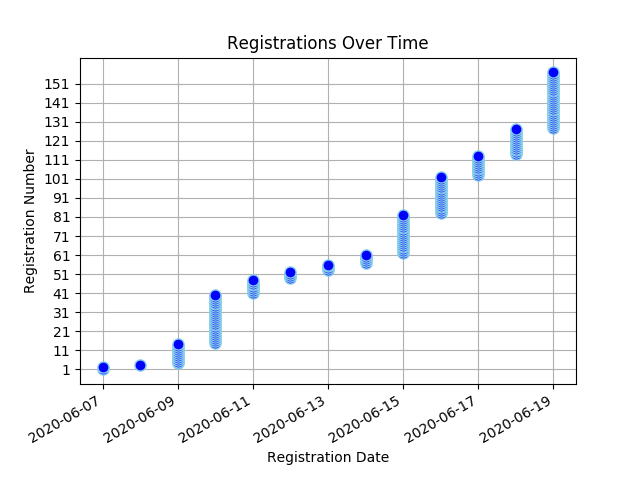
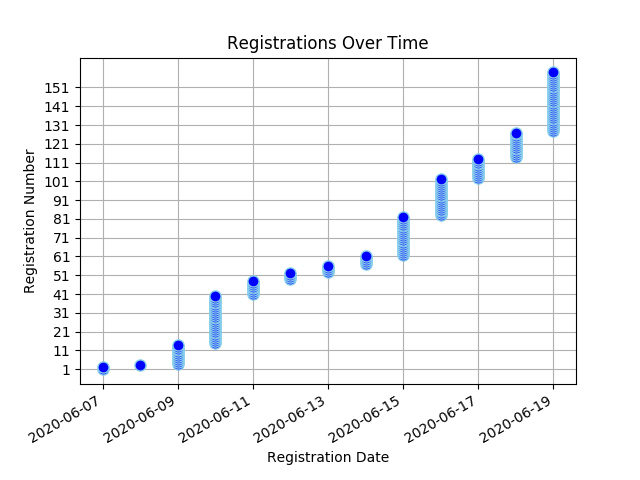
Registree stats backup on Fri Jun 19 16:34:41 SAST 2020

Changed region(s): [[0.0625, 0.1562, 0.9062, 0.7188], [0.875, 0.1562, 0.9062, 0.1875]]

diff --git a/content/virtual_conf_stats/_index.md b/content/virtual_conf_stats/_index.md
@@ -16,7 +16,7 @@ draft: false
 </head>
 <body>
 <h1 style="color: #000000;">Virtual Convention Registration Stats</h1>
-<ul><li><strong>Number of Registrees</strong>: 157</li>
+<ul><li><strong>Number of Registrees</strong>: 159</li>
 </ul><a href="/docs/virtual_convention_stats.csv">Download registration details here</a>
 <h2>Registrees</h2>
 <table id="registreeTable" class="tablesorter" border="1" padding=1>
@@ -37,6 +37,7 @@ Club
 <tr><td>Baumgarten, Linda</td><td>Sea Point</td></tr>
 <tr><td>Behrens, Ulrike</td><td>Windhoek</td></tr>
 <tr><td>Beukes, Valencia</td><td>Kuilsriver</td></tr>
+<tr><td>Beukes, Valencia</td><td>Kuilsrver</td></tr>
 <tr><td>Botha, Lynette</td><td>Cowies Hill</td></tr>
 <tr><td>BRAGA BORGES, JOSE</td><td>MALMESBURY</td></tr>
 <tr><td>Bull, Christopher (Chris)</td><td>Johannesburg - The Wilds</td></tr>
@@ -49,6 +50,7 @@ Club
 <tr><td>Daniel, Peter</td><td>Gordon's Bay</td></tr>
 <tr><td>De Vos, Felicity</td><td>Kuilsriver</td></tr>
 <tr><td>De Vos, Felicity</td><td>Kuilsriver</td></tr>
+<tr><td>Diener, Benita (Bonny)</td><td>Lions Club of Mitchell's Plain</td></tr>
 <tr><td>du Plooy, Marc</td><td>alberton</td></tr>
 <tr><td>Easton, Denise</td><td>Roodepoort Clearwater Cyber Lions Club</td></tr>
 <tr><td>Ely, Fadia</td><td>Athlone</td></tr>
